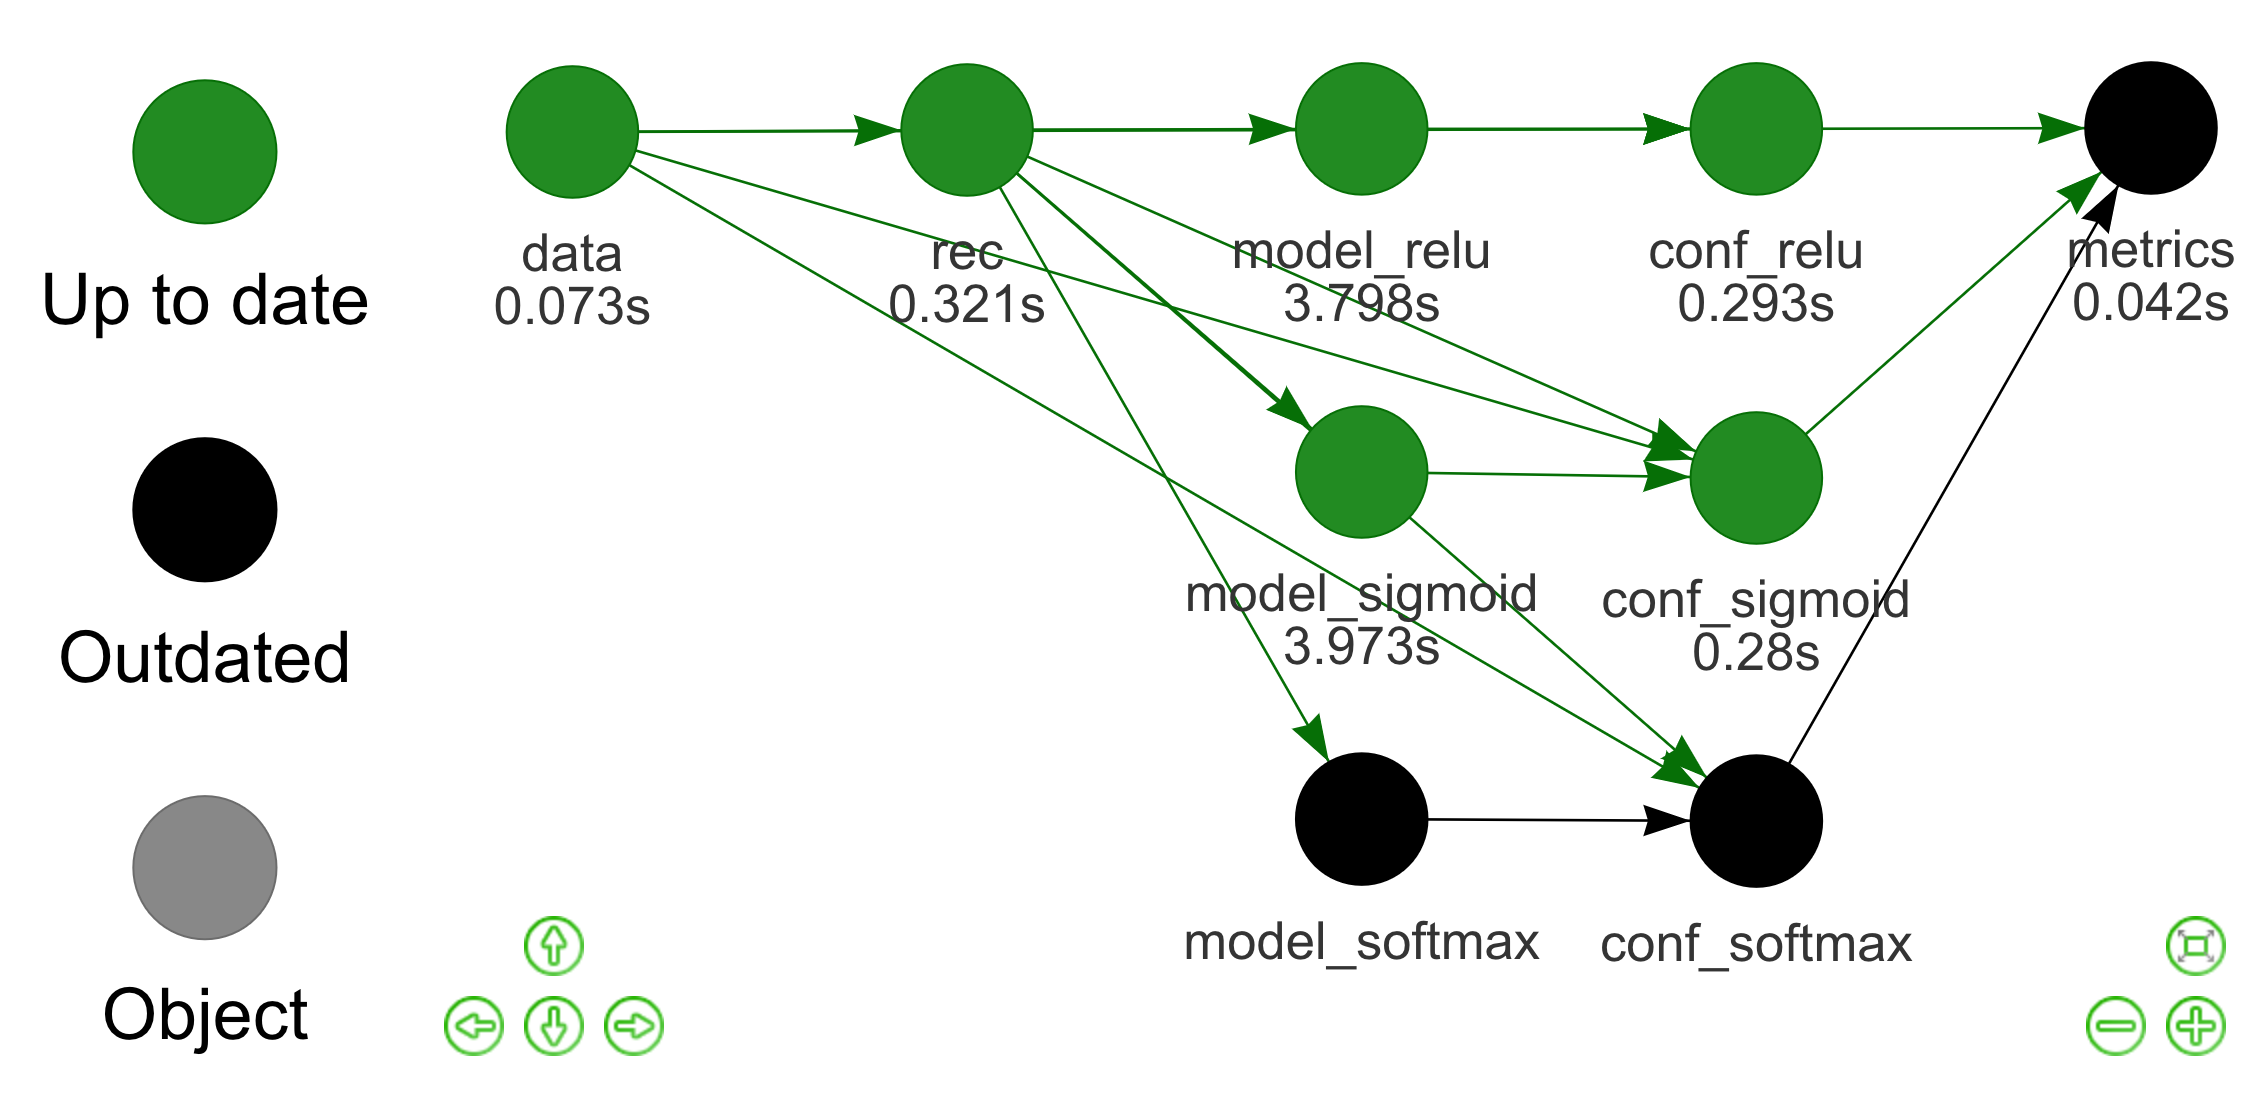
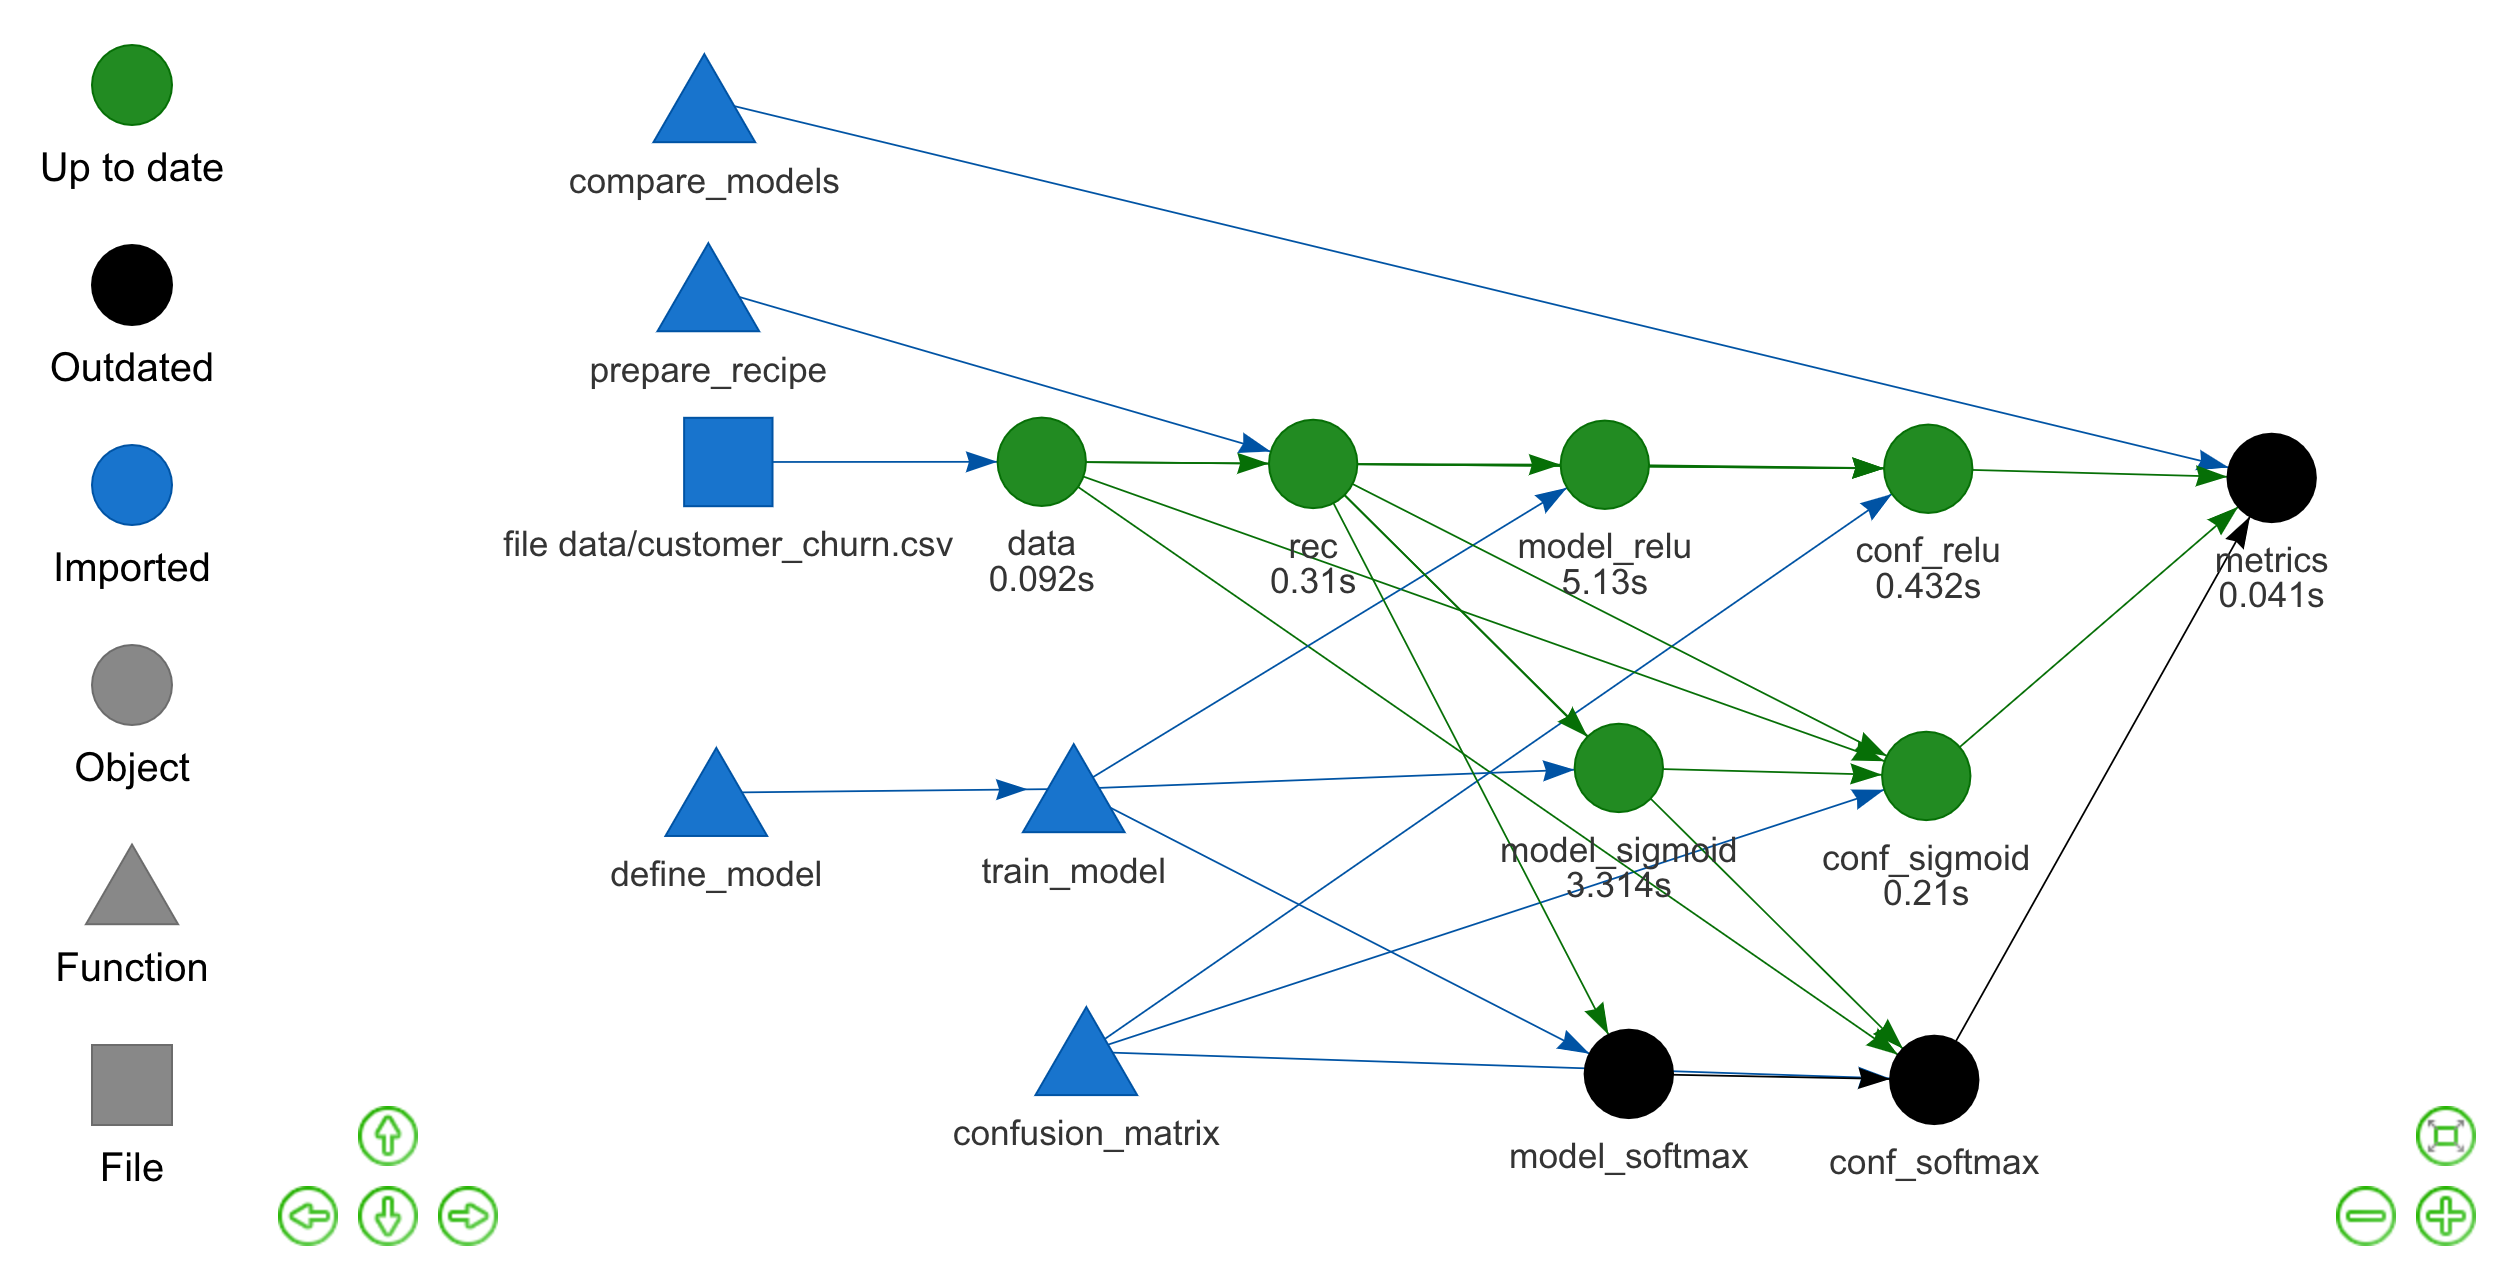
Put functions in graph

diff --git a/inst/slides/index.html b/inst/slides/index.html
@@ -276,10 +276,9 @@ prepare_recipe &lt;- function(data) {
 
 ```r
 # run_everything.R
-data &lt;- read_csv(
-  file_in("data/customer_churn.csv"),
-  col_types = cols()
-) %&gt;%
+source("R/packages.R")
+source("R/functions.R")
+data &lt;- read_csv(file_in("data/customer_churn.csv"), col_types = cols()) %&gt;%
   initial_split(prop = 0.3)
 saveRDS(data, "output/data.rds")
 *rec &lt;- prepare_recipe(data) # Use your functions.
@@ -516,16 +515,16 @@ drake_history()
 ## # A tibble: 10 x 10
 ##    target  current built  exists hash  command     seed runtime  prop act1 
 ##    &lt;chr&gt;   &lt;lgl&gt;   &lt;chr&gt;  &lt;lgl&gt;  &lt;chr&gt; &lt;chr&gt;      &lt;int&gt;   &lt;dbl&gt; &lt;dbl&gt; &lt;chr&gt;
-##  1 conf_r… TRUE    2019-… TRUE   81cd… confusio… 4.05e8   0.21   NA   &lt;NA&gt; 
-##  2 conf_s… TRUE    2019-… TRUE   83f5… confusio… 1.93e9   0.202  NA   &lt;NA&gt; 
-##  3 conf_s… TRUE    2019-… TRUE   d6b5… confusio… 1.80e9   0.407  NA   &lt;NA&gt; 
-##  4 data    TRUE    2019-… TRUE   ca84… "read_cs… 1.29e9   0.038   0.3 &lt;NA&gt; 
-##  5 metrics FALSE   2019-… TRUE   26ec… compare_… 1.21e9   0.023  NA   &lt;NA&gt; 
-##  6 metrics TRUE    2019-… TRUE   c406… compare_… 1.21e9   0.021  NA   &lt;NA&gt; 
-##  7 model_… TRUE    2019-… TRUE   b95b… "train_m… 1.47e9   4.92   NA   relu 
-##  8 model_… TRUE    2019-… TRUE   3ac5… "train_m… 1.26e9   3.26   NA   sigm…
-##  9 model_… TRUE    2019-… TRUE   0c3e… "train_m… 8.05e8   3.33   NA   soft…
-## 10 rec     TRUE    2019-… TRUE   40e5… prepare_… 6.29e8   0.164  NA   &lt;NA&gt;
+##  1 conf_r… TRUE    2019-… TRUE   4122… confusio… 4.05e8  0.207   NA   &lt;NA&gt; 
+##  2 conf_s… TRUE    2019-… TRUE   c697… confusio… 1.93e9  0.197   NA   &lt;NA&gt; 
+##  3 conf_s… TRUE    2019-… TRUE   ad93… confusio… 1.80e9  0.388   NA   &lt;NA&gt; 
+##  4 data    TRUE    2019-… TRUE   ca84… "read_cs… 1.29e9  0.0860   0.3 &lt;NA&gt; 
+##  5 metrics FALSE   2019-… TRUE   8e59… compare_… 1.21e9  0.0230  NA   &lt;NA&gt; 
+##  6 metrics TRUE    2019-… TRUE   0f27… compare_… 1.21e9  0.019   NA   &lt;NA&gt; 
+##  7 model_… TRUE    2019-… TRUE   bafb… "train_m… 1.47e9  6.96    NA   relu 
+##  8 model_… TRUE    2019-… TRUE   fb65… "train_m… 1.26e9  3.07    NA   sigm…
+##  9 model_… TRUE    2019-… TRUE   9ff3… "train_m… 8.05e8  3.25    NA   soft…
+## 10 rec     TRUE    2019-… TRUE   40e5… prepare_… 6.29e8  0.167   NA   &lt;NA&gt;
 ```
 
 ---
@@ -550,7 +549,7 @@ make(plan, recover = TRUE)
 
 proc.time() - start
 ##    user  system elapsed 
-##   0.099   0.041   0.285
+##   0.084   0.032   0.215
 ```
 
 - Details + how to rename a target: &lt;https://ropenscilabs.github.io/drake-manual/walkthrough.html#automated-recovery-and-renaming&gt;
